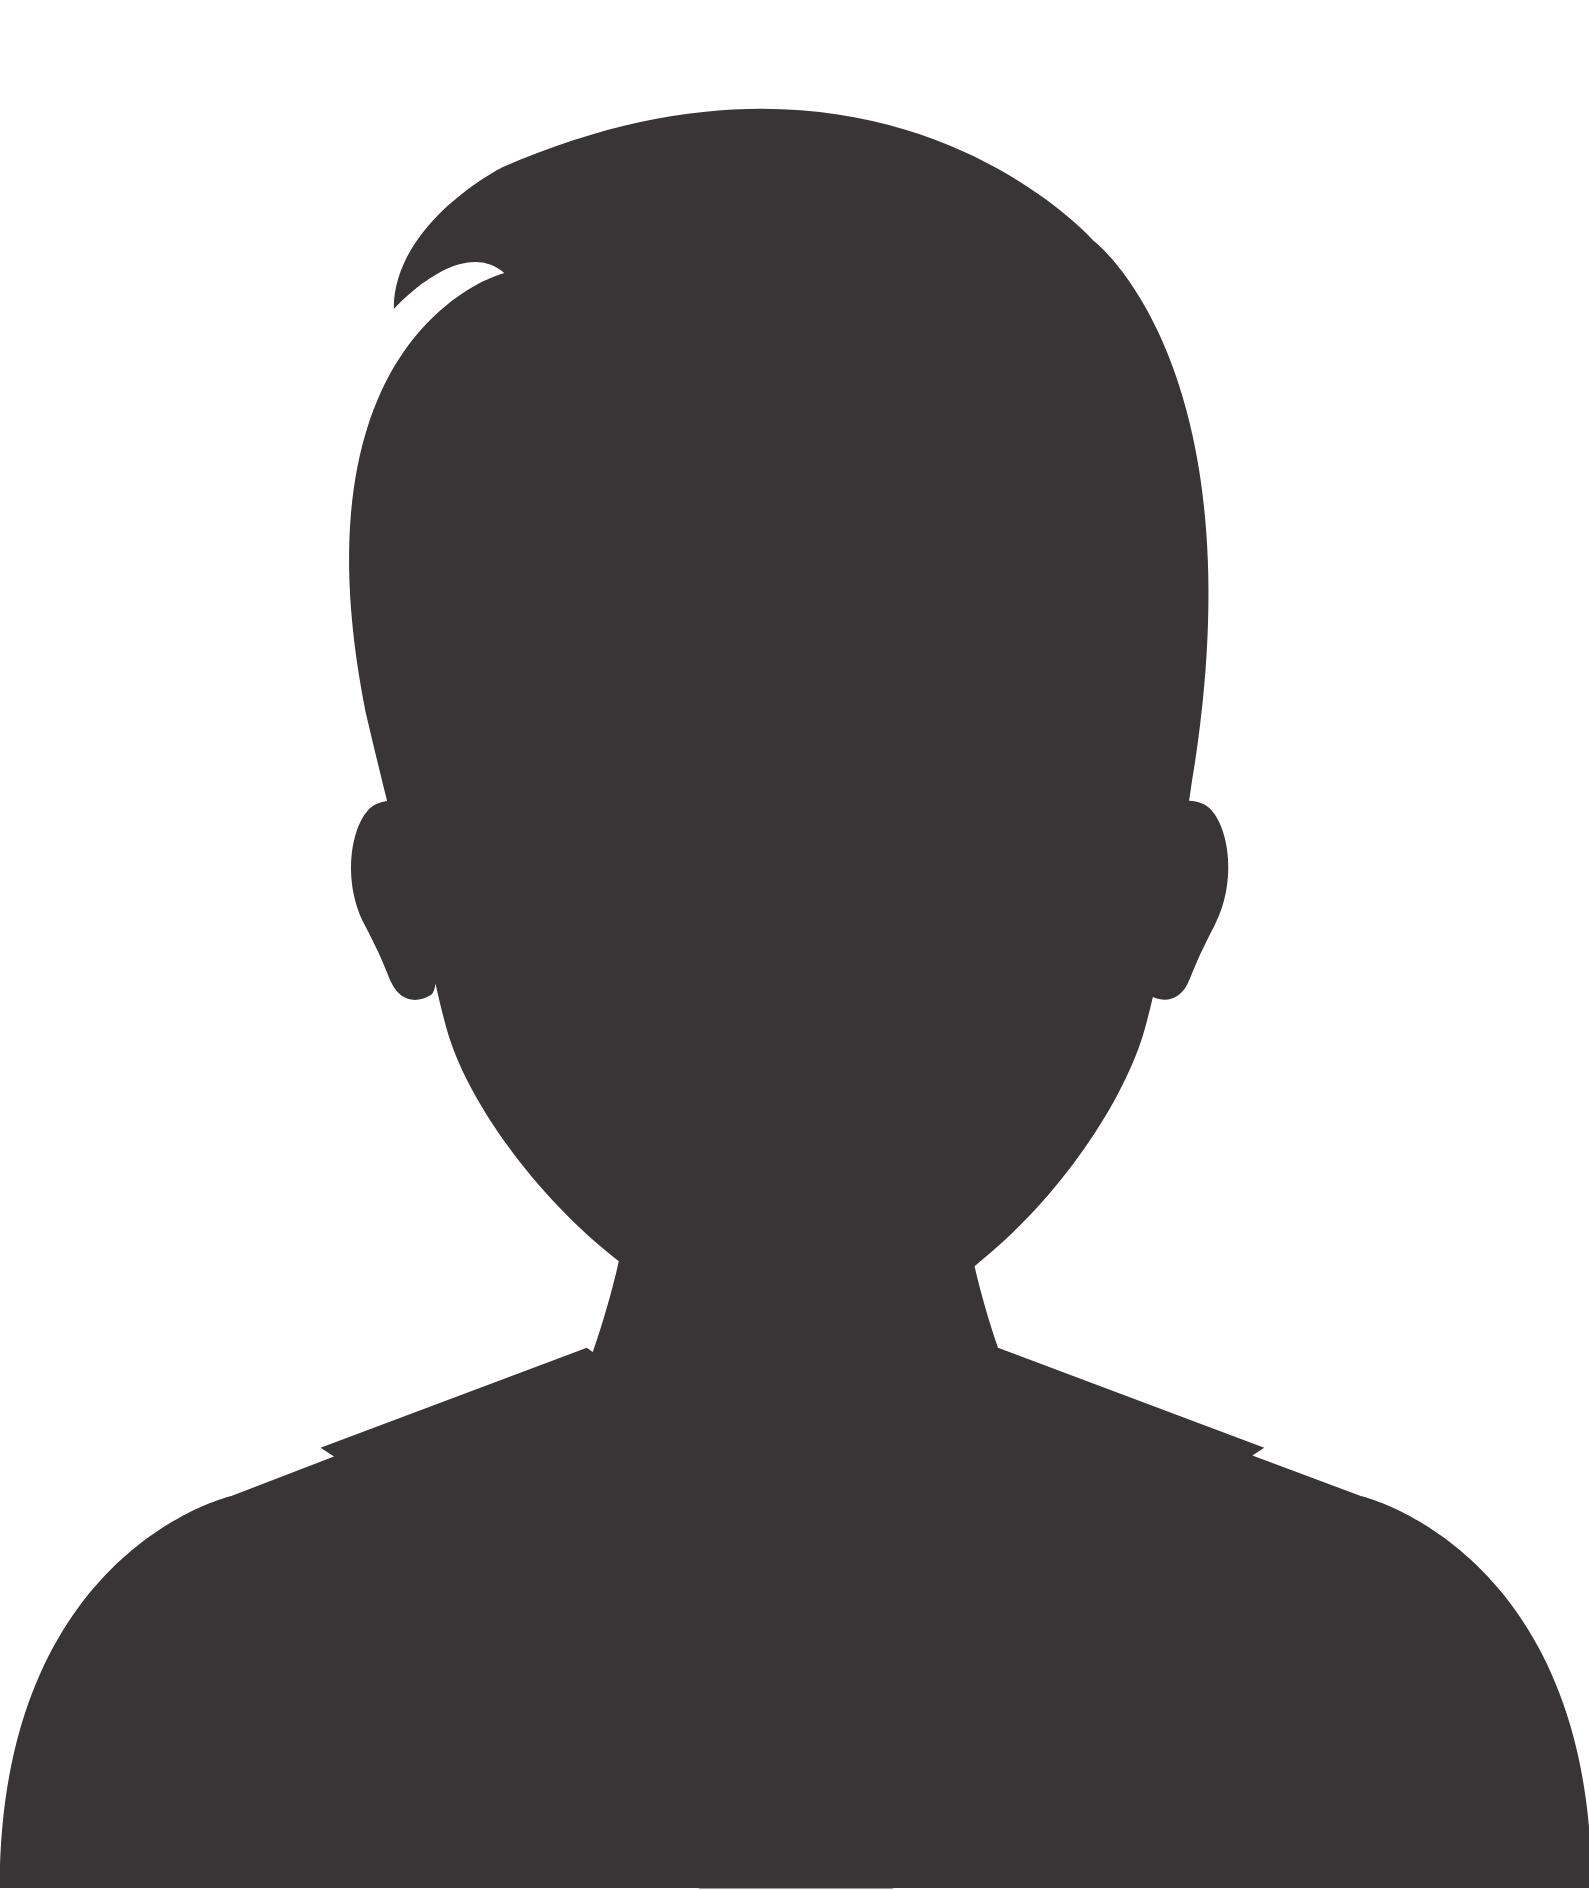
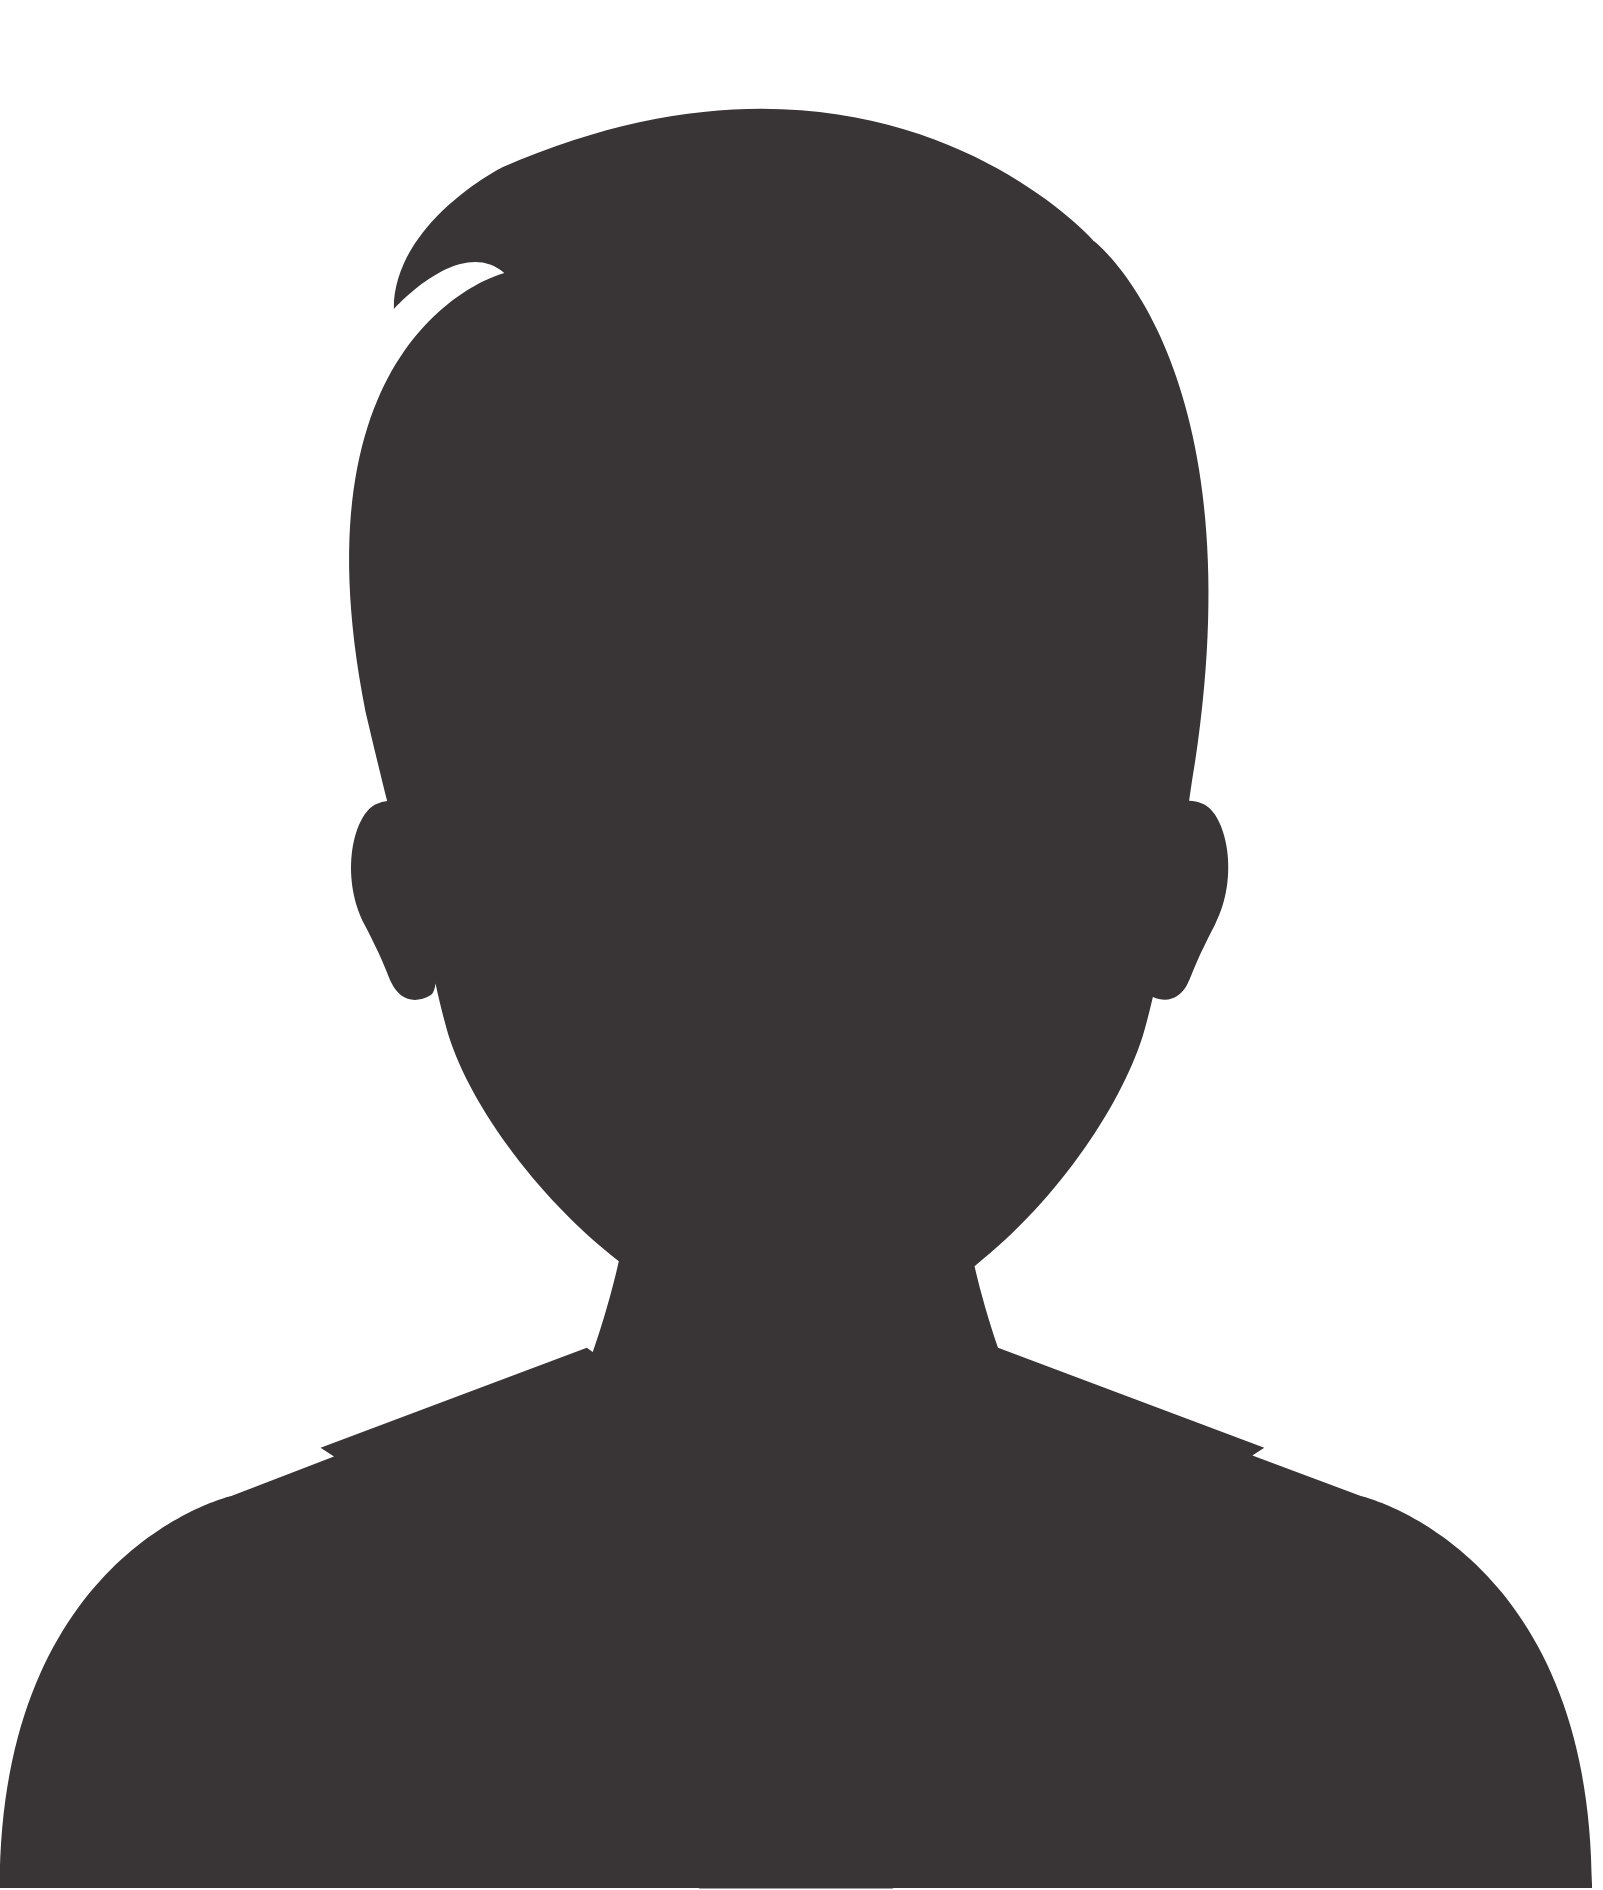
header contenedor bienvenida 1

diff --git a/index.html b/index.html
@@ -501,7 +501,7 @@
             <input type="text" placeholder="Buscar productos, marcas...">
         </div>
         <div class="bienvenida-header">
-            <img src="Images/logo.png" alt="Usuario" class="icono-usuario">
+            <img src="Images/user.png" alt="Usuario" class="icono-usuario">
             <div class="rectangulo-bienvenida">
                 <p class="texto-pequeño">Bienvenido:</p>
                 <p class="texto-nombre">NOMBRE</p>
